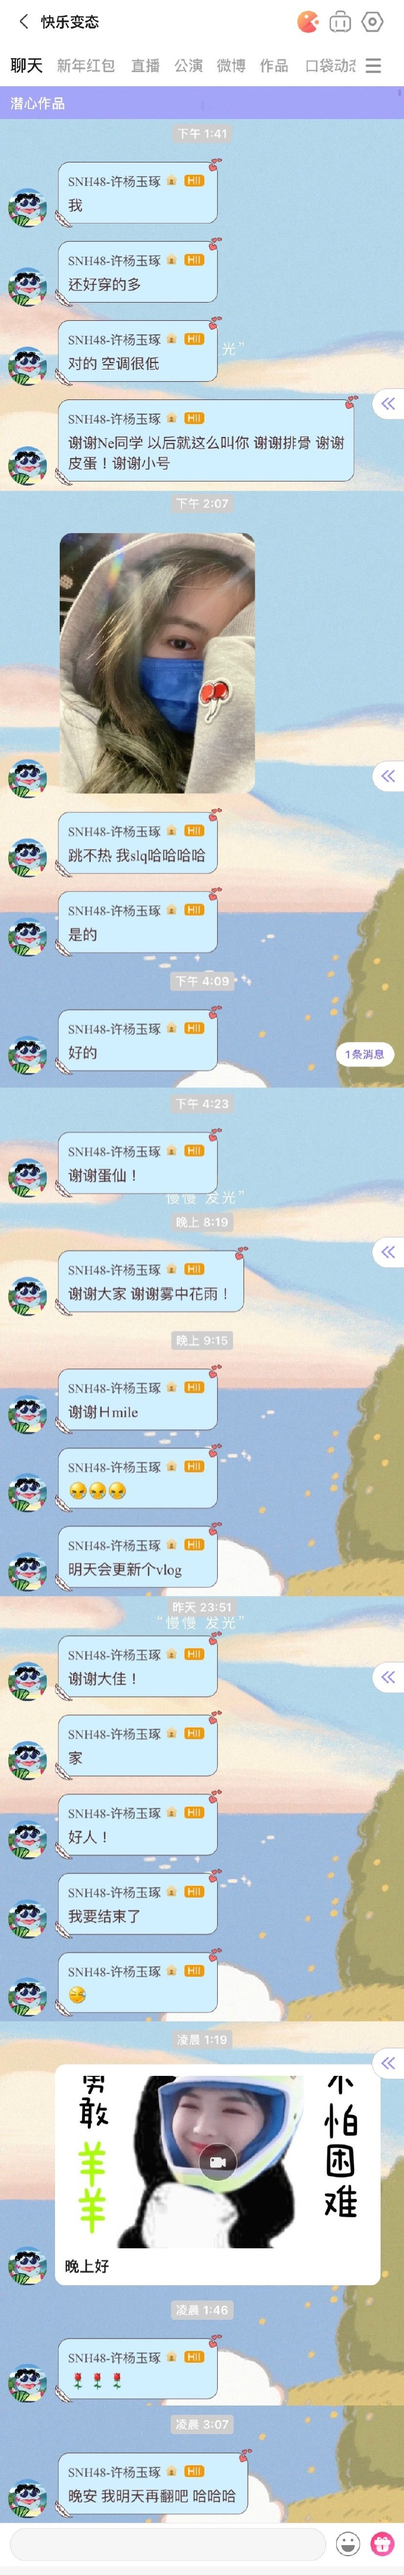
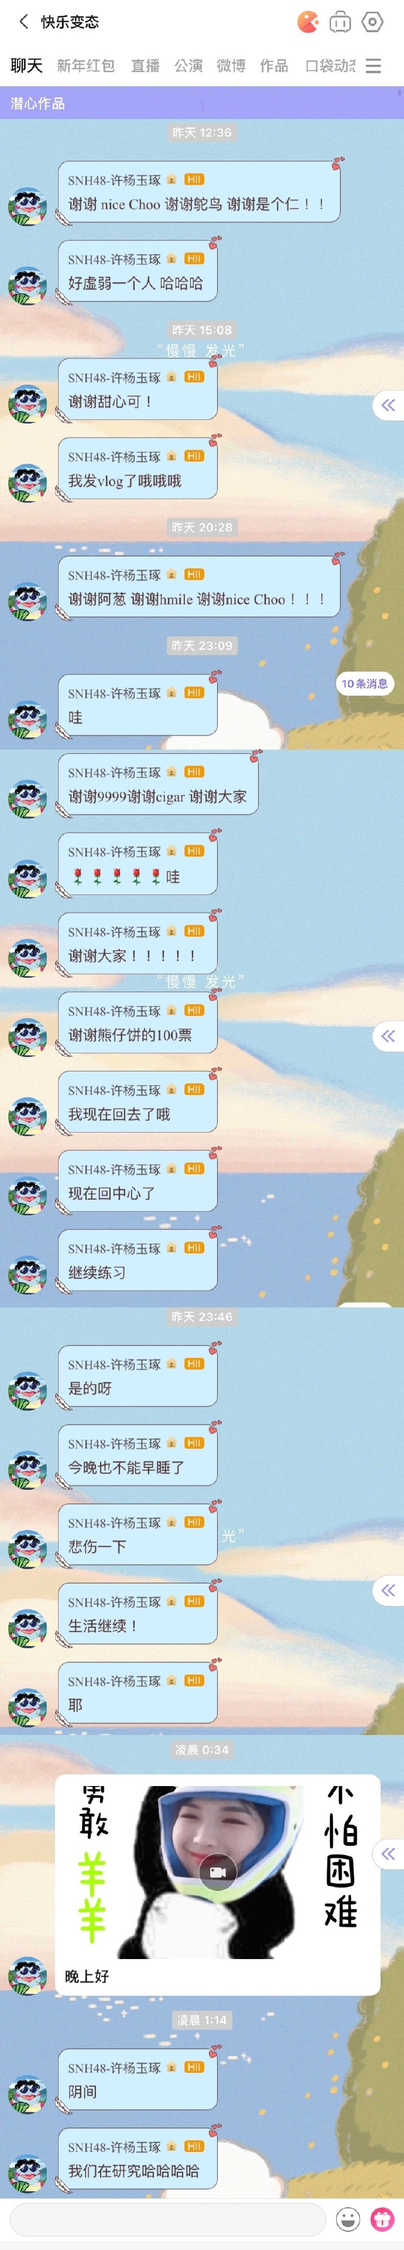
20210720

diff --git a/20210720/README.md b/20210720/README.md
@@ -1,0 +1,21 @@
+## 行程
+永无止境的新公演排练<br>
+
+## 物料
+各种物料
+### YumPlan
+[上班](https://weibo.com/7335378002/KpB5cB3Qg?from=page_1005057335378002_profile&wvr=6&mod=weibotime&type=comment#_rnd1626973103862)<br>
+[下班](https://weibo.com/7335378002/KpG7OgAja?from=page_1005057335378002_profile&wvr=6&mod=weibotime&type=comment#_rnd1626973097974)
+### DreamHealer
+[上下班](https://weibo.com/6375088879/KpBfml120?from=page_1005056375088879_profile&wvr=6&mod=weibotime&type=comment#_rnd1626972870909) 手里紧紧攥着烤肠<br>
+[买烤肠](https://weibo.com/6375088879/KpG0aipJJ?from=page_1005056375088879_profile&wvr=6&mod=weibotime&type=comment)
+### Nebularoam·昕羊
+站姐专用栏
+
+## 口袋
+### 口袋电台
+https://cychengyuan-vod.48.cn/5566/20210721/cy/624414196865241088-dw6hc3rzew90z2lxcapb.m3u8
+
+### 口袋发言
+![口袋发言](./pocket48/imgs/messages.jpeg)<br>
+![口袋图片1](./pocket48/imgs/P1.jpeg)<br>

diff --git a/20210718/README.md b/20210718/README.md
@@ -9,7 +9,7 @@ ID：勇敢羊羊怕难<br>
 [和平精英游戏+表演Cut](https://www.bilibili.com/video/BV1tX4y1c7Sz)
 ### YumPlan
 [比赛现场](https://weibo.com/7335378002/Kplsp8nsJ?from=page_1005057335378002_profile&wvr=6&mod=weibotime&type=comment#_rnd1626972065205)<br>
-[下班](https://weibo.com/7335378002/Kpm6SEypR?from=page_1005057335378002_profile&wvr=6&mod=weibotime&type=comment#_rnd1626972072701)
+[下班](https://weibo.com/7335378002/Kpm6SEypR?from=page_1005057335378002_profile&wvr=6&mod=weibotime&type=comment#_rnd1626972072701)<br>
 [Uknow 表演Focus](https://weibo.com/7335378002/KpmfiygHl?from=page_1005057335378002_profile&wvr=6&mod=weibotime&type=comment)
 ### DreamHealer
 [比赛现场](https://weibo.com/6375088879/KploRc3F1?from=page_1005056375088879_profile&wvr=6&mod=weibotime&type=comment#_rnd1626971977144)<br>

diff --git a/README.md b/README.md
@@ -26,3 +26,12 @@
 
 ## 基本语法
 [在github上编写](https://docs.github.com/cn/github/writing-on-github/getting-started-with-writing-and-formatting-on-github/basic-writing-and-formatting-syntax)
+
+## 资源博参考汇总
+[应援会](https://weibo.com/u/5236952807?refer_flag=1008085010_&is_all=1#_rnd1626972205310)<br>
+
+[DH](https://weibo.com/u/6375088879?refer_flag=1008085010_&is_all=1)<br>
+
+[YP](https://weibo.com/u/7335378002?refer_flag=1008085010_&is_all=1)<br>
+
+[Nebularoam·昕羊](https://weibo.com/u/7584954147?refer_flag=1008085010_)<br>

diff --git a/20210721/README.md b/20210721/README.md
@@ -28,5 +28,5 @@ https://weibo.com/5228056212/KpMO7kFYG?from=page_1005055236952807_profile&wvr=6&
 [写了一首unit和一首16人曲的词cut](http://t.cn/A6fnCxxY?m=4661881610703881&u=7302184557)<br><br>
 
 ### 口袋发言
-![口袋发言](./pocket48/imgs/messages.jpeg)<br>
-![口袋图片1](./pocket48/imgs/P1.jpeg)<br>
+![口袋发言1](./pocket48/imgs/messages.jpeg)<br>
+![口袋发言2](./pocket48/imgs/messages2.jpeg)<br>
